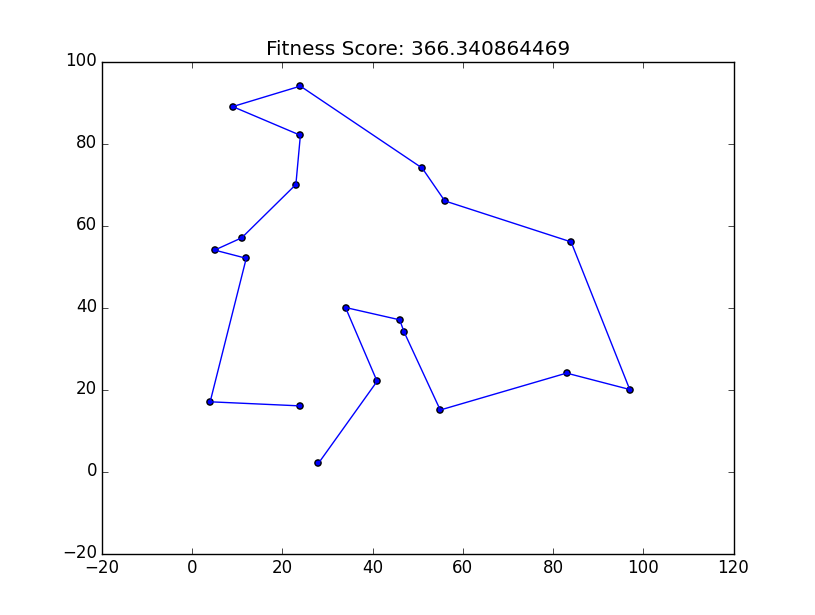
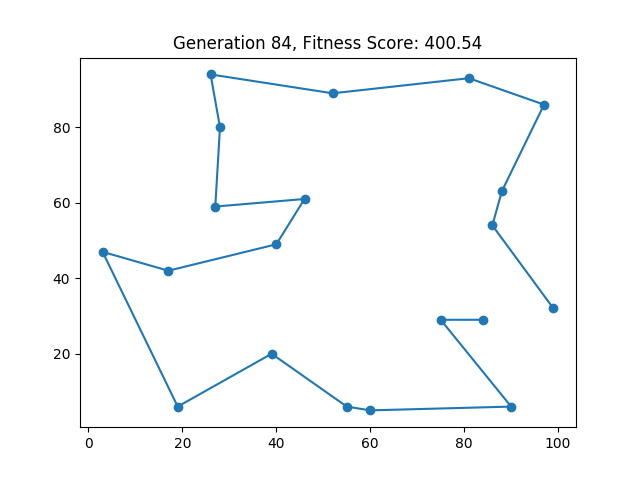
New plot

diff --git a/GA.py b/GA.py
@@ -40,10 +40,10 @@ class solution:
         plt.clf()
         plt.scatter(x, y)
         plt.plot(path_x, path_y)
-        plt.title('Fitness Score: ' + str(self.fitness))
+        plt.title('Fitness Score: ' + str(self.fitness)[ : 6])
         plt.show()
 
-    def save_plot(self, name):
+    def save_plot(self, name, gen):
         x = [city[0] for city in self.probl.cities]
         y = [city[1] for city in self.probl.cities]
         path_x = [x[city] for city in self.path]
@@ -51,7 +51,7 @@ class solution:
         plt.clf()
         plt.scatter(x, y)
         plt.plot(path_x, path_y)
-        plt.title('Fitness Score: ' + str(self.fitness))
+        plt.title('Generation ' + str(gen) + ', Fitness Score: ' + str(self.fitness)[ : 6])
         plt.savefig(name)
 
 class population:

diff --git a/GArun2.py b/GArun2.py
@@ -9,10 +9,10 @@ start = GArun.pop.get_fittest().fitness
 for i in range(100):
     GArun.evolve()
     name = 'figs/result_' + str(i) + '.png'
-    GArun.pop.get_fittest().save_plot(name)
+    GArun.pop.get_fittest().save_plot(name, i)
 
 end = GArun.pop.get_fittest().fitness  
 print('Evolution done! Final score is: ' + str(round(end)) + '. That is ' + str(round((1 - end / start) * 100)) 
-       + ' % better than the best generation 1 solution.')
+       + ' % better than the best generation 0 solution.')
 
 GArun.pop.get_fittest().plot()
